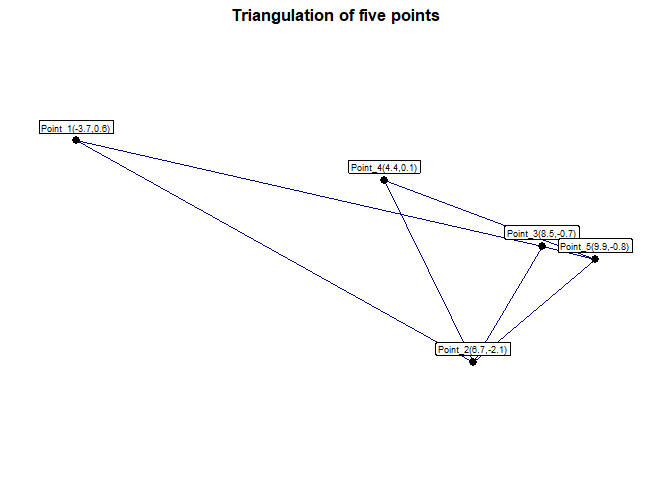
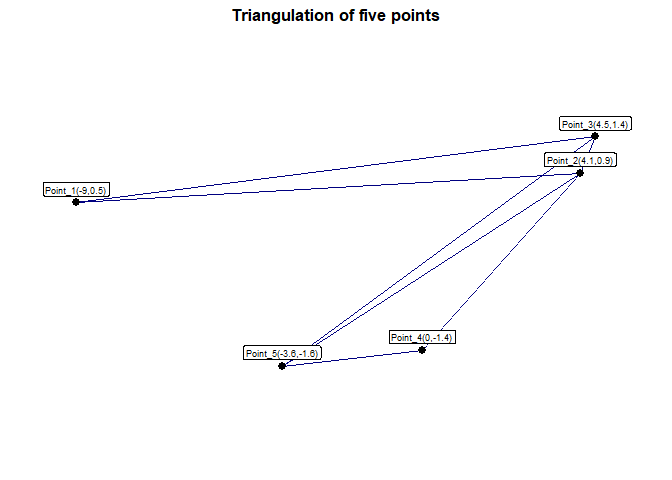
edit readme again

diff --git a/README.md b/README.md
@@ -25,10 +25,14 @@ pak::pak("gkagyen/Triangulate")
 **`triangulate()`**: This function connects five points (given a 5x2
 matrix) into three triangles returning a list with the points and edges.
 `triangulate()` connects the five points using a fixed pattern: 1-2-3,
-2-4-5, 3-5-2 **`plot_triangles()`**: This function helps to visualise
-the triangulation using `ggplot2`, labelling points with their
-respective coordinates **Example datasets**: Two built-in 5x2 matrices
-(`sample_data1` and `sample_data2`) for demonstration
+2-4-5, 3-5-2.
+
+**`plot_triangles()`**: This function helps to visualise the
+triangulation using `ggplot2`, labelling points with their respective
+coordinates.
+
+**Example datasets**: Two built-in 5x2 matrices (`sample_data1` and
+`sample_data2`) for demonstration
 
 ## Example Usage
 
@@ -68,12 +72,12 @@ plot_triangles(triangulate(sample_data1))
 ``` r
 
 sample_data2
-#>              x          y
-#> [1,] -3.688526  0.6262307
-#> [2,]  6.685532 -2.1271964
-#> [3,]  8.487249 -0.6811584
-#> [4,]  4.365835  0.1319151
-#> [5,]  9.884388 -0.8479281
+#>                x          y
+#> [1,] -9.01170765  0.5321647
+#> [2,]  4.13892163  0.9122417
+#> [3,]  4.53365277  1.3850328
+#> [4,]  0.01981274 -1.3775058
+#> [5,] -3.64417294 -1.5812229
 plot_triangles(triangulate(sample_data2))
 ```
 
